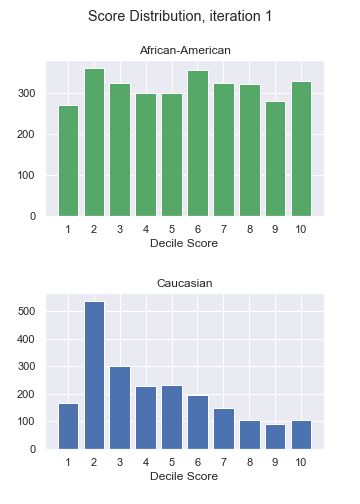
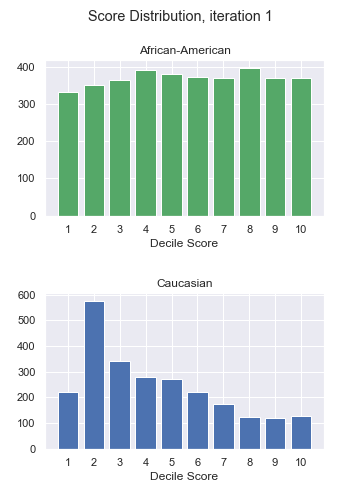
added feeback, cleaning up local repo, playing around with delta function

diff --git a/distro_neil.py b/distro_neil.py
@@ -3,6 +3,7 @@ from scipy.stats import beta
 from scipy.stats import norm
 import matplotlib.pyplot as plt
 import seaborn as sns;
+import math
 
 sns.set(style='darkgrid')
 
@@ -52,8 +53,12 @@ def rank_top_k(arr_a, arr_b, k, prob_a):
 
     # rank remaining subjects by max-util strategy
     remain_a, remain_b = rank_max_util(arr_a[a:], arr_b[b:])
-    rank_a.extend([s_a + k for s_a in remain_a])
-    rank_b.extend([s_b + k for s_b in remain_b])
+    for s_a in remain_a:
+        rank_a = np.append(rank_a, s_a + k)
+    for s_b in remain_b:
+        rank_b = np.append(rank_b, s_b + k)
+    # rank_a.append([s_a + k for s_a in remain_a])
+    # rank_b.append([s_b + k for s_b in remain_b])
 
     return rank_a, rank_b
 
@@ -91,29 +96,29 @@ def rank_max_util(arr_a, arr_b):
 # DISTRIBUTIONS =========================================================
 
 
-def sample_dist(dist, mean, var, QUERY_LEN, prob):
+def sample_dist(dist, mean, var, ql, prob):
     """
     Returns length-(QUERY_LEN * prob) list of relevances (in decreasing order) 
     as sampled from a chosen distribution with specified mean and variance
     """
     if dist == 'beta':
-        return sample_beta(mean, var, QUERY_LEN, prob)
+        return sample_beta(mean, var, ql, prob)
     elif dist == 'normal':
-        return sample_normal(mean, var, QUERY_LEN, prob)
+        return sample_normal(mean, var, ql, prob)
     else:
         # TODO
         pass
 
 
-def sample_beta(mean, var, q_len, prob):
+def sample_beta(mean, var, ql, prob):
     a = (((1 - mean) / var) - (1 / mean)) * (mean ** 2)
     b = a * ((1 / mean) - 1)
-    arr = np.array(beta.rvs(a, b, size=int(q_len * prob)))
+    arr = np.array(beta.rvs(a, b, size=int(ql * prob)))
     return np.sort(arr)[::-1]
 
 
-def sample_normal(mean, var, q_len, prob):
-    arr = np.array(norm.rvs(loc=mean, scale=var, size=int(q_len * prob)))
+def sample_normal(mean, var, ql, prob):
+    arr = np.array(norm.rvs(loc=mean, scale=var, size=int(ql * prob)))
     return np.sort(arr)[::-1]
 
 
@@ -128,6 +133,8 @@ def compute_metric(rank_a, rank_b, metric):
     """
     if metric == 'avg_position':
         return avg_position(rank_a, rank_b)
+    elif metric == 'avg_exposure':
+        return avg_exposure(rank_a, rank_b)
     else:
         # TODO 
         pass
@@ -137,44 +144,45 @@ def avg_position(rank_a, rank_b):
     return np.mean(rank_a), np.mean(rank_b)
 
 
-def avg_exposure():
-    # TODO 
-    pass
+def avg_exposure(rank_a, rank_b):
+    return 1 / math.log2(1 + avg_position(rank_a, rank_b)[0]), 1 / math.log2(1 + avg_position(rank_a, rank_b)[1])
 
 
 # ///////////////////////////////////////////////////////////////////////
 
 
-def update_means():
-    # TODO
-    pass
-
+def update_mean(mean):
+    sig = 1 / (1 + np.exp(-mean))
+    delta = sig * 0.5 - (1 - sig) * 0.5
+    return delta
 
 def main():
-    PROB_A = 0.7
+    PROB_A = 0.6
     PROB_B = 1 - PROB_A
-    MEAN_A = 0.55
-    MEAN_B = 0.45
-    VAR_A = 0.1
-    VAR_B = 0.1
+    MEAN_A = 1
+    MEAN_B = -1
+    VAR_A = 0.5
+    VAR_B = 0.5
     QUERY_LEN = 10
-    NUM_ITER = 10
+    NUM_ITER = 25
     METRIC = 'avg_position'
+    DIST = 'normal'
 
     metric_a = np.empty(NUM_ITER)
     metric_b = np.empty(NUM_ITER)
 
     for i in range(NUM_ITER):
         # sample QUERY_LEN subjects from underlying distribution
-        arr_a = sample_beta(MEAN_A, VAR_A, QUERY_LEN, PROB_A)
-        arr_b = sample_beta(MEAN_B, VAR_B, QUERY_LEN, PROB_B)
+        arr_a = sample_dist(DIST, MEAN_A, VAR_A, QUERY_LEN, PROB_A)
+        arr_b = sample_dist(DIST, MEAN_B, VAR_B, QUERY_LEN, PROB_B)
 
         # rank subjects according to chosen policy, compute metric
-        rank_a, rank_b = rank_max_util(arr_a, arr_b)
+        rank_a, rank_b = rank_top_k(arr_a, arr_b, 5, PROB_A)
         metric_a[i], metric_b[i] = compute_metric(rank_a, rank_b, METRIC)
 
         # update population distributions for next iteration
-        update_means()
+        MEAN_A += update_mean(np.mean(arr_a))
+        MEAN_B += update_mean(np.mean(arr_b))
 
     # plot change in metric over time
     plt.plot(np.arange(NUM_ITER), metric_a, color='C2', label=f'Group A {METRIC}')

diff --git a/compas-analysis/markov_neil.py b/compas-analysis/markov_neil.py
@@ -12,17 +12,17 @@ def prepare_data():
     df = pd.read_csv('compas-scores-two-years.csv', low_memory=False)
 
     # filter
-    df = df[(df['days_b_screening_arrest'] >= -30) &
-            (df['days_b_screening_arrest'] <= 30) &
-            (df['is_recid'] != -1) &
-            (df['v_score_text'] != 'N/A') &
-            (df['c_charge_degree'] != 'O')]
+    # df = df[(df['days_b_screening_arrest'] >= -30) &
+    #         (df['days_b_screening_arrest'] <= 30) &
+    #         (df['is_recid'] != -1) &
+    #         (df['v_score_text'] != 'N/A') &
+    #         (df['c_charge_degree'] != 'O')]
 
     df = df[['race', 'decile_score', 'score_text', 'is_recid']]
     df = df[(df['race'] == 'Caucasian') | (df['race'] == 'African-American')]
     return df
 
-
+# They DO NOT filter the data when investigating false positive and negative rates
 # It seems that propublica decided to lock up everyone who had a 'High' as their text and let everyone with 'Low' go
 # Not sure if this is the right way to think about FPR, FNR in our case but we can determine that ourselves I think
 # 1-4 is Low, 8-10 is High
